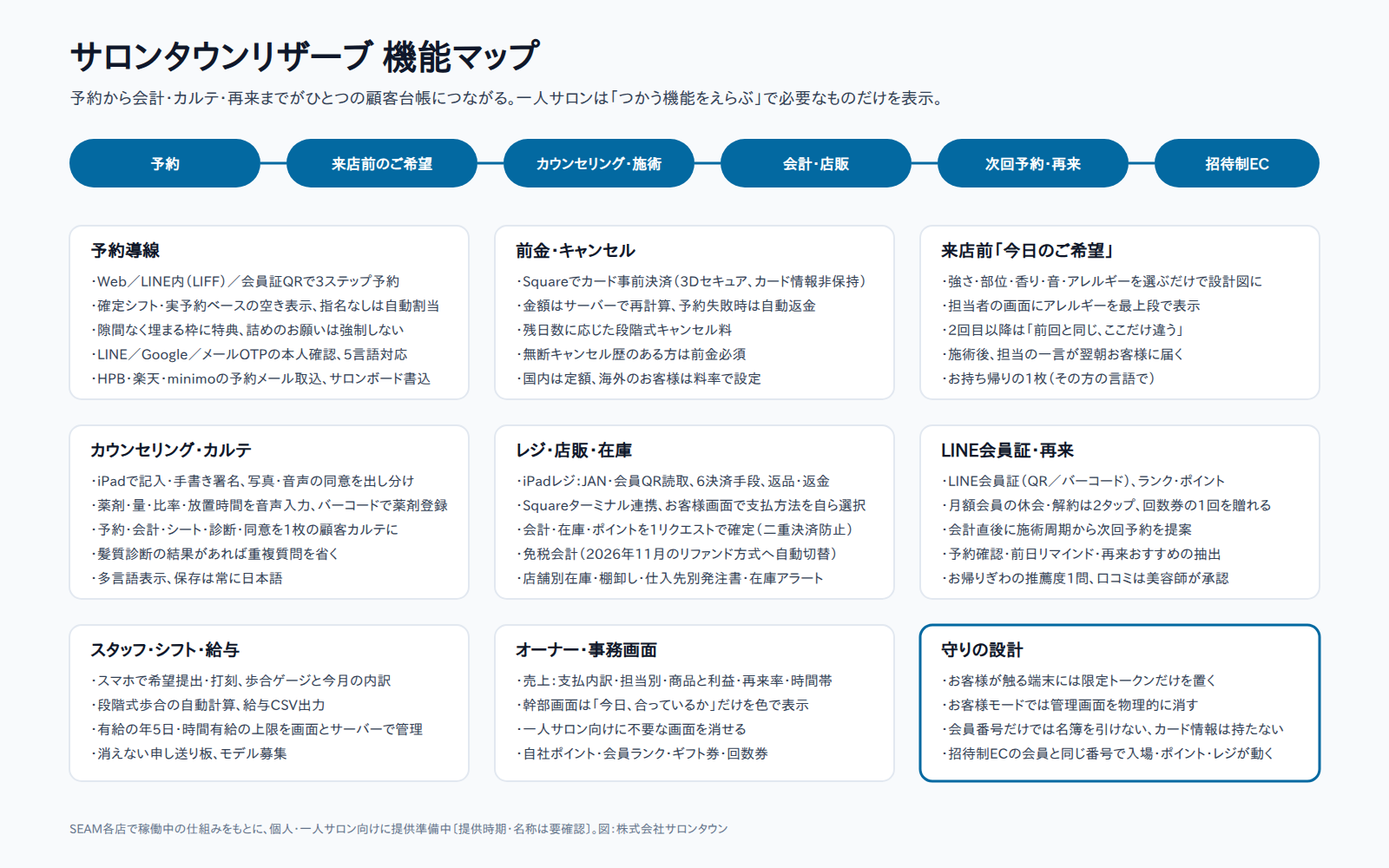
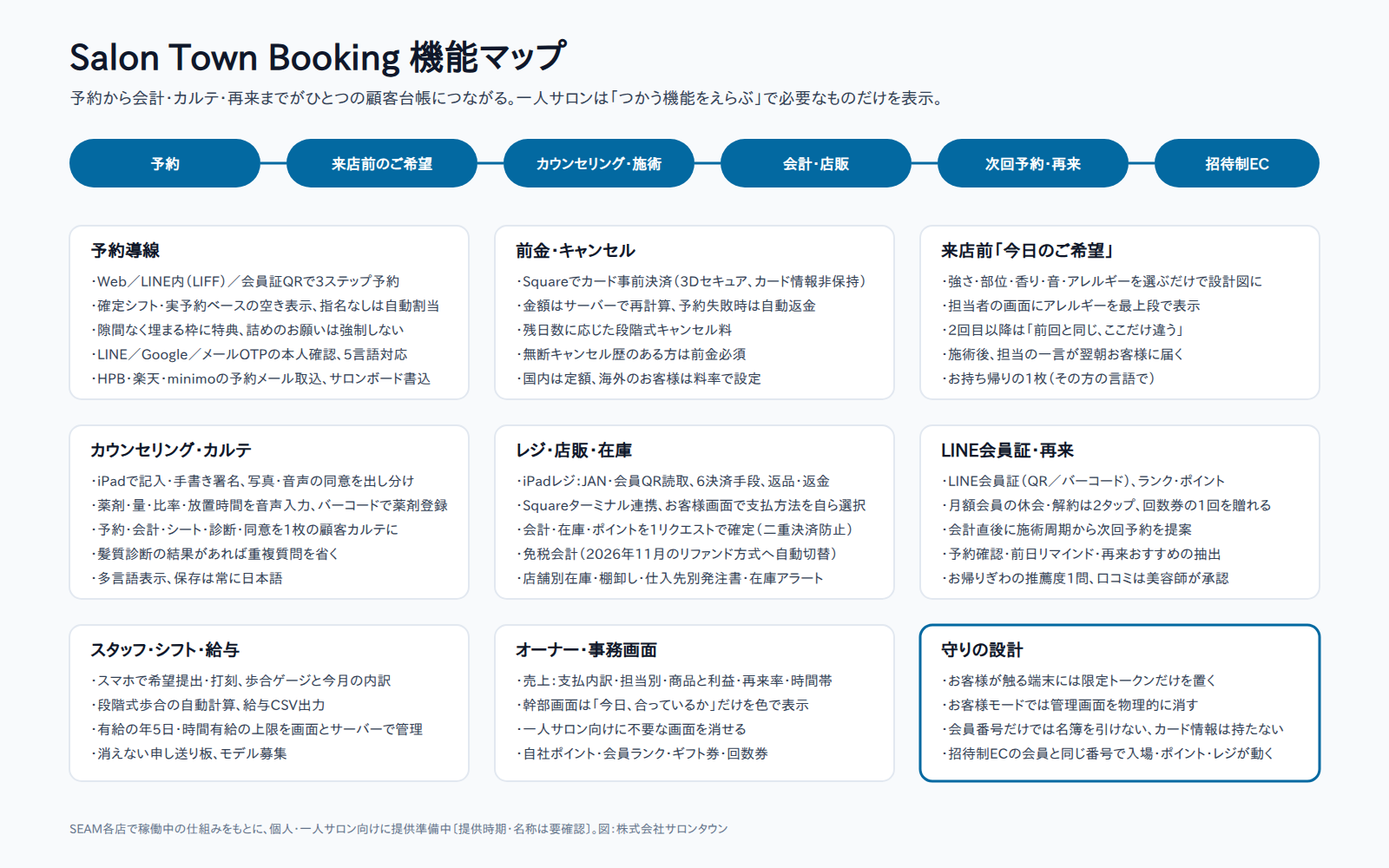
Rename product to Salon Town Booking across site, outreach docs and diagrams
Claude-Session: https://claude.ai/code/session_013C6tmT1zfXgEGe4crYL5rv

Changed region(s): [[0.0312, 0.031, 0.4062, 0.093]]

diff --git a/salontown/index.html b/salontown/index.html
@@ -4,7 +4,7 @@
 <meta charset="utf-8">
 <meta name="viewport" content="width=device-width,initial-scale=1">
 <title>salon.town｜サロンのための最先端システム — 株式会社サロンタウン</title>
-<meta name="description" content="サロンとディーラーの悩みを仕組みで解決するシステム会社、株式会社サロンタウン。招待制クローズドEC、予約システム サロンタウンリザーブ、ディーラー連携の無在庫店販、B2B卸EC、商品マスタ統一、シフト・給与、AI受付。悩みを一つ解決するたび、事業は速くなる。">
+<meta name="description" content="サロンとディーラーの悩みを仕組みで解決するシステム会社、株式会社サロンタウン。招待制クローズドEC、予約システム Salon Town Booking、ディーラー連携の無在庫店販、B2B卸EC、商品マスタ統一、シフト・給与、AI受付。悩みを一つ解決するたび、事業は速くなる。">
 <link rel="canonical" href="https://seam.site/salontown/">
 <meta property="og:title" content="salon.town｜サロンのための最先端システム">
 <meta property="og:description" content="サロンとディーラーの悩みを仕組みで解決する。累計会員6万人、最高月商7,000万円の招待制ECと、予約・会計・カルテ・店販がひとつになる基盤。">
@@ -349,7 +349,7 @@
     <nav class="nav-links" aria-label="主要ナビゲーション">
       <a href="#platform">プラットフォーム</a>
       <a href="screens.html">画面</a>
-      <a href="#reserve">リザーブ</a>
+      <a href="#reserve">Booking</a>
       <a href="#ec">クローズドEC</a>
       <a href="#dealer">ディーラー連携</a>
       <a href="#ai">AI受付</a>
@@ -367,7 +367,7 @@
 <div class="m-panel" id="mPanel">
   <a href="#platform">プラットフォーム</a>
   <a href="screens.html">実際の画面</a>
-  <a href="#reserve">サロンタウンリザーブ</a>
+  <a href="#reserve">Salon Town Booking</a>
   <a href="#ec">招待制クローズドEC</a>
   <a href="#dealer">ディーラー連携</a>
   <a href="#ai">AI受付</a>
@@ -416,7 +416,7 @@
     <h2 class="t-xl ja" style="margin-top:14px">悩みを解決することが、<br>システムの務め。</h2>
     <p class="lead ja">予約が入り、来店し、施術して、会計し、商品を案内し、また来ていただく。この流れのどこかで、毎日手が止まっています。その一つひとつが売上と時間を静かに削っている。salon.town は、手が止まる場所を同じ顧客台帳の上で解決します。悩みが一つ減るたびに、店は次の店、次の商品、次のスタッフへ進めます。</p>
     <div class="bento">
-      <a class="cell c2 blue" href="#reserve"><span class="ic">📅</span><h3>サロンタウンリザーブ</h3><p>予約の二重管理、無断キャンセル、紙のカルテを一枚の台帳で解決</p></a>
+      <a class="cell c2 blue" href="#reserve"><span class="ic">📅</span><h3>Salon Town Booking</h3><p>予約の二重管理、無断キャンセル、紙のカルテを一枚の台帳で解決</p></a>
       <a class="cell c2" href="#ec"><span class="ic">🎫</span><h3>招待制クローズドEC</h3><p>「店販が続かない」を、招待した人だけが買えるECで解決</p></a>
       <a class="cell c2" href="#dealer"><span class="ic">📦</span><h3>ディーラー連携 無在庫店販</h3><p>在庫・梱包・発送の悩みをゼロに。在庫と出荷はディーラー</p></a>
       <a class="cell c3" href="#b2b"><span class="ic">🏷</span><h3>B2B卸EC・商品マスタ統一</h3><p>FAX発注とバラバラの商品データを、まとめ発注と統一マスタで解決</p></a>
@@ -486,7 +486,7 @@
 <!-- RESERVE -->
 <section class="chapter dark" id="reserve">
   <div class="inner">
-    <div class="media r"><img src="img/reserve.jpg" alt="サロンタウンリザーブ 予約画面のイメージ" width="1536" height="1024" loading="lazy"><span class="cap">Salon Town Reserve</span></div>
+    <div class="media r"><img src="img/reserve.jpg" alt="Salon Town Booking 予約画面のイメージ" width="1536" height="1024" loading="lazy"><span class="cap">Salon Town Booking</span></div>
     <div class="r">
       <span class="tag">Booking</span>
       <h2 class="t-lg ja">予約の悩みを、<br>一枚のカルテで解決する。</h2>
@@ -753,7 +753,7 @@
       <details><summary class="ja">ディーラーとして参加する場合、何を用意すればよいですか</summary><p class="ja">新しい倉庫も人員も不要です。対象サロンと取扱商品を決め、出荷指示の受け取り方を決めたら、いつもの出荷をしていただくだけです。まず担当サロン1店から試せます。</p></details>
       <details><summary class="ja">「スマイル」など独自の在庫システムを使っています。連携できますか</summary><p class="ja">できます。在庫・受注・出荷の情報を二重入力せずに済むよう、いまお使いのシステムに合わせて当社エンジニアが接続します。基幹システムや会計、物流など他のシステムも同様です。接続方法はシステムごとに異なるため、まず現状の構成をお聞かせください。</p></details>
       <details><summary class="ja">メーカーの流通規約に反しませんか</summary><p class="ja">正規流通の枠組みの中で運用します。在庫と出荷はディーラー、購入できるのはサロンが対面で招待した会員だけです。会員登録はサロンから500m以内・招待コード発行から1分以内に限定し、誰にどこで売られたかが担当者単位で残ります。</p></details>
-      <details><summary class="ja">サロンタウンリザーブはいつから使えますか</summary><p class="ja">SEAM各店で稼働中の仕組みを土台に、個人サロン・一人サロン向けに準備しています。提供時期と価格は決まり次第ご案内します。フォームから「提供開始の案内」をご希望ください。</p></details>
+      <details><summary class="ja">Salon Town Bookingはいつから使えますか</summary><p class="ja">SEAM各店で稼働中の仕組みを土台に、個人サロン・一人サロン向けに準備しています。提供時期と価格は決まり次第ご案内します。フォームから「提供開始の案内」をご希望ください。</p></details>
       <details><summary class="ja">個人情報やカード情報はどう扱われますか</summary><p class="ja">カード情報は決済事業者の画面にのみ入力され、当社やサロンのサーバーは番号を受け取りません。お客様が触る端末に管理者の権限は置かず、会員番号だけでは名簿を引けない設計です。顧客情報は暗号化して保管します。</p></details>
       <details><summary class="ja">相談は有料ですか</summary><p class="ja">無料です。つくりたいシステムが固まっていなくても、現場の困りごとから一緒に整理します。</p></details>
     </div>
@@ -767,7 +767,7 @@
     <div class="news-list">
       <a class="news r" href="https://prtimes.jp/main/html/rd/p/000000001.000174537.html" target="_blank" rel="noopener"><time>2025.12.11</time><h3 class="ja">美容師一人ひとりに「自分専用EC」を。ディーラー各社と無在庫で店販ができる新スキームを提供開始</h3><p>PR TIMES</p></a>
       <a class="news r" href="#dealer"><time>2026</time><h3 class="ja">ディーラー各社との連携を段階的に拡大中。本格展開へ</h3><p class="ja">物流・在庫はディーラー、EC・会員管理は salon.town</p></a>
-      <a class="news r" href="#reserve"><time>Coming</time><h3 class="ja">予約システム「サロンタウンリザーブ」を個人・一人サロン向けに準備中</h3><p class="ja">SEAM各店で稼働中の仕組みが土台</p></a>
+      <a class="news r" href="#reserve"><time>Coming</time><h3 class="ja">予約システム「Salon Town Booking」を個人・一人サロン向けに準備中</h3><p class="ja">SEAM各店で稼働中の仕組みが土台</p></a>
     </div>
   </div>
 </section>
@@ -840,7 +840,7 @@
         <a class="brand" href="#top"><svg viewBox="0 0 48 48" aria-hidden="true"><rect x="2" y="2" width="44" height="44" rx="13" fill="url(#lg)"/><g fill="none" stroke="#fff" stroke-width="2.3" stroke-linejoin="round" stroke-linecap="round"><path d="M9.5 23.5 V35 H18.5 V23.5 L14 19 Z"/><path d="M23.5 20.5 V35 H36.5 V20.5 L30 15 Z"/></g><rect x="27.6" y="28" width="5" height="7" rx="1" fill="#0EA5E9"/></svg>salon.town</a>
         <p class="ja">株式会社サロンタウン。サロンのためのシステム開発を軸に、招待制クローズドEC、予約、POS、顧客管理まで、現場が回る仕組みをつくります。</p>
       </div>
-      <div><h5 class="ja">プロダクト</h5><a href="#reserve" class="ja">サロンタウンリザーブ</a><a href="#ec" class="ja">招待制クローズドEC</a><a href="#dealer" class="ja">ディーラー連携</a><a href="#b2b" class="ja">B2B卸EC・PIM</a><a href="#shift" class="ja">シフト・給与</a></div>
+      <div><h5 class="ja">プロダクト</h5><a href="#reserve" class="ja">Salon Town Booking</a><a href="#ec" class="ja">招待制クローズドEC</a><a href="#dealer" class="ja">ディーラー連携</a><a href="#b2b" class="ja">B2B卸EC・PIM</a><a href="#shift" class="ja">シフト・給与</a></div>
       <div><h5 class="ja">会社</h5><a href="#cases" class="ja">導入実績</a><a href="#vision" class="ja">ビジョン</a><a href="#news" class="ja">ニュース</a><a href="#company" class="ja">会社概要</a><a href="contact.html" class="ja">AI受付</a></div>
       <div><h5 class="ja">連絡先</h5><a href="tel:0112529133">011-252-9133</a><a href="mailto:tanaka@salontown.jp">tanaka@salontown.jp</a><a href="contact.html" class="ja">AI受付（音声・文字、24時間）</a><p class="ja" style="margin-top:8px">札幌市中央区南2条西2丁目8-1<br>NC北専ブロックビル3階</p></div>
     </div>
@@ -914,7 +914,7 @@
 /* EN / JA toggle: 日本語の文をキーに英訳を引く。見つからない要素はそのまま。 */
 (function(){
   var MAP={
-  "プラットフォーム":"Platform","画面":"Screens","実際の画面":"Real screens","イメージではなく、実際の画面。":"Not mockups. Real screens.","サロンで毎日使われている画面と、いま開発している画面をそのまま載せています。お客様が触る画面、スタッフの画面、オーナーの画面まで。":"Screens used in salons every day, plus the ones we are building now, shown as they are. Guest screens, staff screens and owner screens.","招待制EC":"Closed EC","お客様のアプリ":"Guest app","オーナーの管理画面":"Owner admin","LINEから3ステップ":"3 steps from LINE","実際の画面をすべて見る":"See all real screens","リザーブ":"Reserve","クローズドEC":"Closed EC","ディーラー連携":"Dealers","AI受付":"AI reception","実績":"Results","会社":"Company","AIに話す":"Talk to AI","相談する":"Contact","サロンタウンリザーブ":"Salon Town Reserve","招待制クローズドEC":"Invitation-only closed EC","導入実績":"Case studies","会社概要":"Company","本文へ":"Skip to content",
+  "プラットフォーム":"Platform","画面":"Screens","実際の画面":"Real screens","イメージではなく、実際の画面。":"Not mockups. Real screens.","サロンで毎日使われている画面と、いま開発している画面をそのまま載せています。お客様が触る画面、スタッフの画面、オーナーの画面まで。":"Screens used in salons every day, plus the ones we are building now, shown as they are. Guest screens, staff screens and owner screens.","招待制EC":"Closed EC","お客様のアプリ":"Guest app","オーナーの管理画面":"Owner admin","LINEから3ステップ":"3 steps from LINE","実際の画面をすべて見る":"See all real screens","Booking":"Booking","クローズドEC":"Closed EC","ディーラー連携":"Dealers","AI受付":"AI reception","実績":"Results","会社":"Company","AIに話す":"Talk to AI","相談する":"Contact","Salon Town Booking":"Salon Town Booking","招待制クローズドEC":"Invitation-only closed EC","導入実績":"Case studies","会社概要":"Company","本文へ":"Skip to content",
   "サロンを、<br>いちばん<br><span class=\"grad\">豊かに。</span>":"Making salons<br>truly<br><span class=\"grad\">prosperous.</span>",
   "最先端の技術を、サロンが使いやすい形に。予約・会計・カルテ・店販・在庫がひとつの基盤でつながり、ディーラーと結んだ無在庫店販が売上をつくる。サロンの現場から生まれたシステム会社です。":"Cutting-edge technology, shaped so salons can actually use it. Booking, checkout, records, retail and stock run on one platform, and stock-free retail with dealers creates sales. Born on the salon floor.",
   "無料で相談する":"Free consultation","AI受付に話す（24時間）":"Talk to AI reception (24h)","累計オンラインショップ会員":"Online shop members (total)","オンラインショップ 最高月商":"Peak monthly online sales","対面での会員獲得率":"Members signed up in person","導入サロン数":"Salons live","人":"","サロン":" salons","万":"",
@@ -1075,10 +1075,10 @@
   "既存の予約システムやホットペッパーと併用できますか":"Can I keep my current booking system or Hot Pepper Beauty?","併用を前提にしています。予約通知メールの取り込み、サロンボードへの書き込みと同期の監視を持っています。乗り換えを迫ることはありません。":"Yes, coexistence is the default. We import booking notification emails, write to Salon Board and monitor the sync. We never force a switch.",
   "ディーラーとして参加する場合、何を用意すればよいですか":"What does a dealer need to prepare?","新しい倉庫も人員も不要です。対象サロンと取扱商品を決め、出荷指示の受け取り方を決めたら、いつもの出荷をしていただくだけです。まず担当サロン1店から試せます。":"No new warehouse or staff. Choose the salons and products, decide how you receive shipping instructions, then ship as usual. You can start with a single salon.",
   "メーカーの流通規約に反しませんか":"Does this violate maker distribution rules?","正規流通の枠組みの中で運用します。在庫と出荷はディーラー、購入できるのはサロンが対面で招待した会員だけです。会員登録はサロンから500m以内・招待コード発行から1分以内に限定し、誰にどこで売られたかが担当者単位で残ります。":"It runs inside official distribution. Dealers hold stock and ship; only members invited in person by a salon can buy. Sign-up is limited to 500m of the salon and one minute after the invite code, and every sale is recorded down to the stylist.",
-  "サロンタウンリザーブはいつから使えますか":"When can I use Salon Town Reserve?","SEAM各店で稼働中の仕組みを土台に、個人サロン・一人サロン向けに準備しています。提供時期と価格は決まり次第ご案内します。フォームから「提供開始の案内」をご希望ください。":"It is being prepared for independent and solo salons on the system already running in every SEAM store. Launch timing and pricing will be announced once decided. Use the form to request launch news.",
+  "Salon Town Bookingはいつから使えますか":"When can I use Salon Town Booking?","SEAM各店で稼働中の仕組みを土台に、個人サロン・一人サロン向けに準備しています。提供時期と価格は決まり次第ご案内します。フォームから「提供開始の案内」をご希望ください。":"It is being prepared for independent and solo salons on the system already running in every SEAM store. Launch timing and pricing will be announced once decided. Use the form to request launch news.",
   "個人情報やカード情報はどう扱われますか":"How are personal and card data handled?","カード情報は決済事業者の画面にのみ入力され、当社やサロンのサーバーは番号を受け取りません。お客様が触る端末に管理者の権限は置かず、会員番号だけでは名簿を引けない設計です。顧客情報は暗号化して保管します。":"Card details are entered only on the payment provider's screen; neither our servers nor the salon's receive the number. Guest-facing devices carry no admin rights, a member number alone can't pull up the list, and customer data is stored encrypted.",
   "相談は有料ですか":"Is a consultation free?","無料です。つくりたいシステムが固まっていなくても、現場の困りごとから一緒に整理します。":"Yes, it's free. Even if you don't yet know what to build, we start by sorting out the problems on the floor together.",
-  "いま動いていること":"What's moving now","美容師一人ひとりに「自分専用EC」を。ディーラー各社と無在庫で店販ができる新スキームを提供開始":"A personal EC for every stylist: stock-free retail scheme launched with dealers","ディーラー各社との連携を段階的に拡大中。本格展開へ":"Dealer partnerships expanding step by step toward full rollout","物流・在庫はディーラー、EC・会員管理は salon.town":"Dealers handle logistics and stock; salon.town handles EC and members","予約システム「サロンタウンリザーブ」を個人・一人サロン向けに準備中":"Salon Town Reserve being prepared for independent and solo salons","SEAM各店で稼働中の仕組みが土台":"Built on the system running in every SEAM store",
+  "いま動いていること":"What's moving now","美容師一人ひとりに「自分専用EC」を。ディーラー各社と無在庫で店販ができる新スキームを提供開始":"A personal EC for every stylist: stock-free retail scheme launched with dealers","ディーラー各社との連携を段階的に拡大中。本格展開へ":"Dealer partnerships expanding step by step toward full rollout","物流・在庫はディーラー、EC・会員管理は salon.town":"Dealers handle logistics and stock; salon.town handles EC and members","予約システム「Salon Town Booking」を個人・一人サロン向けに準備中":"Salon Town Booking being prepared for independent and solo salons","SEAM各店で稼働中の仕組みが土台":"Built on the system running in every SEAM store",
   "株式会社サロンタウン":"SALON TOWN Inc.","美容関連サイトとシェアサロンを運営しながら、サロンのためのシステムを開発しています。":"We develop systems for salons while running beauty media and a shared salon.",
   "会社名":"Company","株式会社サロンタウン（SALON TOWN Inc.）":"SALON TOWN Inc.","代表者":"CEO","代表取締役 田中 健誠":"Kensei Tanaka, CEO","所在地":"Address","北海道札幌市中央区南2条西2丁目8-1 NC北専ブロックビル3階":"NC Hokusen Block Bldg. 3F, Minami 2-jo Nishi 2-8-1, Chuo-ku, Sapporo, Hokkaido, Japan","設立":"Founded","2019年2月":"February 2019","事業内容":"Business","サロン向けシステム開発（招待制クローズドEC、B2B卸EC、予約システム、POS・顧客・在庫）、美容関連サイトの運営、シェアサロンの運営":"Salon software (invitation-only closed EC, B2B wholesale EC, booking, POS/CRM/stock), beauty media, shared salon operation","連絡先":"Contact",
   "その運用、仕組みにできるか。<br>一度、話しませんか。":"Could that workflow become a system?<br>Let's talk.","つくりたいシステムが固まっていなくても大丈夫です。まず現場の困りごとから一緒に整理します。相談は無料です。":"You don't need a finished idea. We start by sorting out the problems on the floor together. Consultation is free.",

diff --git a/salontown/screens.html b/salontown/screens.html
@@ -4,7 +4,7 @@
 <meta charset="utf-8">
 <meta name="viewport" content="width=device-width,initial-scale=1">
 <title>実際の画面｜salon.town — 株式会社サロンタウン</title>
-<meta name="description" content="salon.town の実際の画面。招待制クローズドEC、予約システム サロンタウンリザーブ、B2B卸EC、シフト・給与、AI受付、髪質診断。サロンで毎日使われている画面をそのまま掲載しています。">
+<meta name="description" content="salon.town の実際の画面。招待制クローズドEC、予約システム Salon Town Booking、B2B卸EC、シフト・給与、AI受付、髪質診断。サロンで毎日使われている画面をそのまま掲載しています。">
 <link rel="canonical" href="https://seam.site/salontown/screens.html">
 <meta property="og:title" content="実際の画面｜salon.town">
 <meta property="og:description" content="サロンで毎日使われている画面を、そのまま。予約・EC・卸EC・シフト・AI受付。">
@@ -147,7 +147,7 @@
 <!-- RESERVE -->
 <section id="reserve" class="dark">
   <div class="wrap">
-    <div class="head r"><div class="kicker">お客様・スタッフの画面</div><h2 class="t-lg ja">予約とカウンセリング<span class="badge">SEAM 銀座で稼働中</span></h2><p class="lead ja">LINEから開く予約画面と、来店時にiPadで記入するカウンセリングシート。5言語に切り替わり、記入内容はそのまま担当者のカルテに入ります。サロンタウンリザーブは、この仕組みを個人サロン・一人サロン向けに整えたものです。</p></div>
+    <div class="head r"><div class="kicker">お客様・スタッフの画面</div><h2 class="t-lg ja">予約とカウンセリング<span class="badge">SEAM 銀座で稼働中</span></h2><p class="lead ja">LINEから開く予約画面と、来店時にiPadで記入するカウンセリングシート。5言語に切り替わり、記入内容はそのまま担当者のカルテに入ります。Salon Town Bookingは、この仕組みを個人サロン・一人サロン向けに整えたものです。</p></div>
     <div class="devices r">
       <div class="phone"><div class="scr"><img src="img/screens/booking-customer.png" alt="LINE予約の入口画面" loading="lazy"></div><p class="cap"><b>予約の入口</b>メニュー→空き時間→確認の3ステップ</p></div>
       <div class="tablet"><div class="scr"><img src="img/screens/counseling.png" alt="カウンセリングシート・同意書" loading="lazy"></div><p class="cap"><b>カウンセリングシート・同意書（iPad）</b>5言語、手書き署名、施術履歴の記録</p></div>

diff --git a/salontown/contact.html b/salontown/contact.html
@@ -143,7 +143,7 @@
     <a class="brand" href="./"><svg class="brand-mark" viewBox="0 0 48 48" aria-hidden="true"><rect x="2" y="2" width="44" height="44" rx="13" fill="url(#logoGrad)"/><g fill="none" stroke="#fff" stroke-width="2.3" stroke-linejoin="round" stroke-linecap="round"><path d="M9.5 23.5 V35 H18.5 V23.5 L14 19 Z"/><path d="M23.5 20.5 V35 H36.5 V20.5 L30 15 Z"/></g><rect x="27.6" y="28" width="5" height="7" rx="1" fill="#0EA5E9"/></svg><span class="wm">salon<span class="wm-dot">.</span>town<br><small>System for Salons</small></span></a>
     <nav class="nav-links">
       <a href="./#platform">プラットフォーム</a>
-      <a href="./#reserve">リザーブ</a>
+      <a href="./#reserve">Booking</a>
       <a href="./#dealer">ディーラー連携</a>
       <a href="./#cases">実績</a>
       <a href="./#company">会社</a>
@@ -202,7 +202,7 @@
       <div class="card">
         <div class="ic"><svg viewBox="0 0 24 24" fill="none" stroke="currentColor" stroke-width="2" stroke-linecap="round" stroke-linejoin="round"><rect x="3" y="4" width="18" height="18" rx="2"/><path d="M16 2v4M8 2v4M3 10h18"/></svg></div>
         <h3>サロン・美容師の方</h3>
-        <p>招待制ECと、予約から会計・カルテ・再来までがひとつになる「サロンタウンリザーブ」。一人サロンでも使える形で準備しています。</p>
+        <p>招待制ECと、予約から会計・カルテ・再来までがひとつになる「Salon Town Booking」。一人サロンでも使える形で準備しています。</p>
       </div>
       <div class="card">
         <div class="ic"><svg viewBox="0 0 24 24" fill="none" stroke="currentColor" stroke-width="2" stroke-linecap="round" stroke-linejoin="round"><path d="M4 4h16v12H8l-4 4z"/></svg></div>
@@ -259,7 +259,7 @@
       </div>
       <div class="foot-col">
         <h5>サービス</h5>
-        <a href="./#reserve">サロンタウンリザーブ</a>
+        <a href="./#reserve">Salon Town Booking</a>
         <a href="./#ec">招待制クローズドEC</a>
         <a href="./#dealer">ディーラー連携</a>
         <a href="./#b2b">B2B卸EC・PIM</a>

diff --git a/outreach/01_press_release_plan.md b/outreach/01_press_release_plan.md
@@ -1,7 +1,7 @@
 # 01 プレスリリース企画書（社内意思決定用）
 
 発信主体：株式会社サロンタウン（代表取締役 田中 健誠）
-対象：2025年12月11日発表「ディーラー連携の無在庫店販スキーム」の続報として、予約システム「サロンタウンリザーブ」を含めた全体像を公開する
+対象：2025年12月11日発表「ディーラー連携の無在庫店販スキーム」の続報として、予約システム「Salon Town Booking」を含めた全体像を公開する
 前提事実：`00_facts.md`。機能の根拠：`05_reserve_features.md`
 配信希望日・特集号の締切：〔要記入〕。未確定のため、本書のタイムラインは「原稿締切＝D」からの逆算で書いている
 
@@ -12,7 +12,7 @@
 ### 目的
 1. ディーラー営業（`03_outreach_emails.md`）の開封率と面談化率を上げる。「記事になった会社」として名前が通った状態でメールを送る
 2. 2026年の本格展開に向けて、ディーラー・メーカーに「正規流通を守る仕組みである」ことを公の場で説明しておく
-3. 一人サロン・個人サロンに「サロンタウンリザーブ」の存在を知らせ、提供開始時の初期ユーザーを確保する
+3. 一人サロン・個人サロンに「Salon Town Booking」の存在を知らせ、提供開始時の初期ユーザーを確保する
 
 ### KPI（仮置き。配信後4週間で判定）
 | 指標 | 目標 | 測り方 |
@@ -22,7 +22,7 @@
 | ディーラーからの問い合わせ | 8件 | フォーム・メール・電話の記録（`04_dealer_contacts.csv` の返信列） |
 | ディーラー営業メールの返信率 | 15%（初回＋フォロー合計） | 送信数に対する返信数 |
 | 面談化 | 6社 | オンライン面談の実施数 |
-| サロンからの「リザーブ」事前登録 | 30件 | 〔要確認：事前登録フォームを作るか〕 |
+| サロンからの「Booking」事前登録 | 30件 | 〔要確認：事前登録フォームを作るか〕 |
 
 ---
 
@@ -100,7 +100,7 @@
 | D-1〜D+2 | ディーラー本送信（優先度2〜3）、1週間後フォロー | 担当者 | 返信記録 |
 | 掲載後 | 「掲載誌をご覧ください」の再送、面談化 | 田中 | 面談数 |
 
-注意：先にディーラーに打診してから記事を出すか、記事を出してからディーラーに送るかは、システムの完成度で決める。サロンタウンリザーブは SEAM 各店で稼働している仕組みが土台にあるため、「稼働中の仕組みを個人サロン向けに提供準備中」と書ける。ただし提供開始日を書けない段階で記事が先行すると、問い合わせに応えられない。提供開始日〔要記入〕が決まるまでは、リリースの主語を「ディーラー連携の進捗」に置き、リザーブは「開発状況の公開」にとどめる。
+注意：先にディーラーに打診してから記事を出すか、記事を出してからディーラーに送るかは、システムの完成度で決める。Salon Town Bookingは SEAM 各店で稼働している仕組みが土台にあるため、「稼働中の仕組みを個人サロン向けに提供準備中」と書ける。ただし提供開始日を書けない段階で記事が先行すると、問い合わせに応えられない。提供開始日〔要記入〕が決まるまでは、リリースの主語を「ディーラー連携の進捗」に置き、リザーブは「開発状況の公開」にとどめる。
 
 ---
 
@@ -114,9 +114,9 @@
 **株式会社サロンタウン**
 
 # 美容師一人ひとりの「自分専用EC」に、予約がつながる。
-## ディーラー連携の在庫レス店販スキーム、2026年展開の進捗と予約システム「サロンタウンリザーブ」を公開
+## ディーラー連携の在庫レス店販スキーム、2026年展開の進捗と予約システム「Salon Town Booking」を公開
 
-サロン向けシステムを開発する株式会社サロンタウン（本社：北海道札幌市、代表取締役：田中 健誠）は、2025年12月に発表した「ディーラー各社と連携し、美容師が在庫を持たずに物販を行える新スキーム」の進捗と、同じ基盤の上で動く予約システム「サロンタウンリザーブ」の開発状況を公開します。当社の招待制ECは、累計オンラインショップ会員数6万人、オンラインショップ最高月商7,000万円（〔要確認：時点〕）に達しています。
+サロン向けシステムを開発する株式会社サロンタウン（本社：北海道札幌市、代表取締役：田中 健誠）は、2025年12月に発表した「ディーラー各社と連携し、美容師が在庫を持たずに物販を行える新スキーム」の進捗と、同じ基盤の上で動く予約システム「Salon Town Booking」の開発状況を公開します。当社の招待制ECは、累計オンラインショップ会員数6万人、オンラインショップ最高月商7,000万円（〔要確認：時点〕）に達しています。
 
 ### 背景：店販は「在庫」と「案内の続かなさ」で止まる
 サロンの店販は、仕入れた在庫が動かないことと、施術のあとにお客様への案内が続かないことで止まります。当社は札幌でサロンを運営しながらシステムを開発しており、この2つを現場で見てきました。
@@ -133,8 +133,8 @@
 ### 進捗：ディーラー各社との連携を段階的に拡大
 2026年の本格展開に向け、ディーラー各社との連携を進めながら、段階的に対象エリアを広げています。〔要確認：連携ディーラーの社数または社名。出せなければこの段落は「連携を進めています」のみにする〕
 
-### 予約システム「サロンタウンリザーブ」
-当社は、SEAM各店（銀座・表参道・札幌・大阪・名古屋・福岡・宇都宮）で稼働している予約〜会計〜カルテの仕組みを土台に、個人サロン・一人サロン向けの予約システム「サロンタウンリザーブ」を開発しています。招待制ECと同じ会員基盤の上で動くため、予約から来店、会計、店販、次回予約までがひとつの顧客台帳につながります。
+### 予約システム「Salon Town Booking」
+当社は、SEAM各店（銀座・表参道・札幌・大阪・名古屋・福岡・宇都宮）で稼働している予約〜会計〜カルテの仕組みを土台に、個人サロン・一人サロン向けの予約システム「Salon Town Booking」を開発しています。招待制ECと同じ会員基盤の上で動くため、予約から来店、会計、店販、次回予約までがひとつの顧客台帳につながります。
 
 - **予約**：Web・LINE・会員証QRから3ステップ。確定シフトと実予約に基づく空き表示。5言語対応
 - **前金とキャンセル**：カード事前決済（カード情報はサロンで保持しない）、残日数に応じた段階式キャンセル料、無断キャンセル歴のある方への前金必須設定
@@ -151,7 +151,7 @@
 「私たちは、サロンを自分たちで運営しながらシステムをつくっています。予約、会計、在庫、顧客。どこで現場の手が止まるかを肌感覚で分かったうえで、毎日ちゃんと使われて売上につながる仕組みだけを作ってきました。ディーラー各社と組むのは、サロンの信頼がいちばん乗るのが、いつもの担当者からいつもの商品が届く形だからです。」（株式会社サロンタウン 代表取締役 田中 健誠）〔要確認：本人確認〕
 
 ### 今後
-ディーラー各社との連携拡大と、サロンタウンリザーブの提供開始〔要記入：時期〕に向けて準備を進めます。ディーラー、メーカー、サロンからのお問い合わせを受け付けています。
+ディーラー各社との連携拡大と、Salon Town Bookingの提供開始〔要記入：時期〕に向けて準備を進めます。ディーラー、メーカー、サロンからのお問い合わせを受け付けています。
 
 ### 会社概要
 株式会社サロンタウン
@@ -188,7 +188,7 @@ AI受付（音声・文字で24時間応答）：https://seam.site/salontown/con
 6. **ディーラー側の負担は何か。儲かるのか**
    新しい倉庫や人員は不要で、出荷指示を受けていつもの出荷をするだけです。収益は販売手数料の分配です。具体的な料率は個別にご説明します〔要確認：公開可否〕。
 
-7. **サロンタウンリザーブはいつ、いくらで提供するのか**
+7. **Salon Town Bookingはいつ、いくらで提供するのか**
    〔要記入：時期と価格〕。決まっていない場合は「SEAM 各店で稼働中の仕組みを土台に、個人・一人サロン向けに準備中。時期と価格は決まり次第お知らせします」と答える。「未定」で止めず、稼働中の土台があることを伝える。
 
 8. **サロン運営会社（株式会社hanico）とサロンタウンの関係は**
@@ -212,7 +212,7 @@ AI受付（音声・文字で24時間応答）：https://seam.site/salontown/con
 ### 未確定情報
 - 提供開始日、価格、連携ディーラー名は、確定していなければ書かない。〔要確認〕〔要記入〕が残った状態で配信しない
 - salon.town サイト上の「90サロン」「年間EC3億円」「対面獲得率90%」は、時点と根拠を確認するまでリリースに入れない。使うのは代表指示の「6万人」「7,000万円」のみ
-- 「サロンタウンリザーブ」の名称は対外初出〔要確認〕。商標の確認をしてから使う
+- 「Salon Town Booking」の名称は対外初出〔要確認〕。商標の確認をしてから使う
 
 ### 他社比較
 - 他社の実名を出した優劣比較はしない。「一般的な予約システムでは」の書き方にとどめる

diff --git a/outreach/02_media_pitch.md b/outreach/02_media_pitch.md
@@ -8,8 +8,8 @@
 - 代表 田中へのインタビュー（対面：札幌／東京出張時、オンライン随時）
 - 導入サロンの現場取材（SEAM 各店：銀座・表参道・札幌・大阪・名古屋・福岡・宇都宮。株式会社hanico 経由で調整）
 - ディーラー側の声（株式会社菊池：B2B卸EC導入先。取材可否は〔要確認〕）
-- 画面デモ（招待制EC／会員登録の位置情報＋OTP／サロンタウンリザーブの予約導線）
-- 図版：`images/01_scheme.png`（ディーラー・サロンタウン・サロン・お客様の役割図）、`images/02_reserve_map.png`（リザーブ機能マップ）、`images/03_platform.png`（同一基盤の構成図）
+- 画面デモ（招待制EC／会員登録の位置情報＋OTP／Salon Town Bookingの予約導線）
+- 図版：`images/01_scheme.png`（ディーラー・サロンタウン・サロン・お客様の役割図）、`images/02_reserve_map.png`（Booking 機能マップ）、`images/03_platform.png`（同一基盤の構成図）
 - 実データ：累計オンラインショップ会員 6万人、オンラインショップ最高月商 7,000万円（時点は〔要確認〕）
 - 寄稿：「一人サロンが在庫を持たずに店販を始める手順」等、1,500〜3,000字で対応可
 
@@ -65,7 +65,7 @@
 
 **なぜ今、貴誌で**
 - 独立直後の美容師は、店販の仕入れ在庫を抱える余裕がありません。ディーラーが在庫と物流を持ち、美容師は「自分専用EC」でお客様に案内するだけ、という形を作りました。
-- 予約導線も同じ基盤に載せています。LINEで完結する予約から、来店後の商品案内までを一人で回せる設計です（開発中の「サロンタウンリザーブ」）。
+- 予約導線も同じ基盤に載せています。LINEで完結する予約から、来店後の商品案内までを一人で回せる設計です（開発中の「Salon Town Booking」）。
 - シェアサロン運営で日々接している独立美容師の実例を、本人の了承のうえでご紹介できます〔要確認：登場可能な美容師〕。
 
 **提供できる素材**
@@ -180,7 +180,7 @@
 
 **なぜ今、貴誌で**
 - 施術履歴をもとにしたAIレコメンドを載せています。技術の記録が、そのままお客様への提案になります。
-- 予約時の事前カウンセリング、施術後の記録、次回来店の案内を一つの導線にまとめる「サロンタウンリザーブ」を開発中です。
+- 予約時の事前カウンセリング、施術後の記録、次回来店の案内を一つの導線にまとめる「Salon Town Booking」を開発中です。
 - 技術誌の読者が一番苦手にしがちな「売る」を、技術の記録の延長として扱えることをお伝えしたいです。
 
 **提供できる素材**
@@ -208,7 +208,7 @@ Beautopia 編集部 御中
 **なぜ今、貴媒体で**
 - Web媒体の速報性に合わせ、リリース当日に画面と図版をすべて提供できます。
 - 不正登録対策（500m以内・1分以内）は、Web読者の関心が高い「仕組みの話」です。設計の背景まで話せます。
-- 予約システム「サロンタウンリザーブ」は、個人サロン・一人サロン向けにLINEで完結する導線を手の届く価格で提供する計画です〔要確認：価格の公開可否〕。
+- 予約システム「Salon Town Booking」は、個人サロン・一人サロン向けにLINEで完結する導線を手の届く価格で提供する計画です〔要確認：価格の公開可否〕。
 
 **提供できる素材**
 プレスリリース全文／画面キャプチャ／図版／代表への書面・オンライン取材

diff --git a/outreach/README.md b/outreach/README.md
@@ -12,9 +12,9 @@
 | `02_media_pitch.md` | 業界誌7媒体への個別取材依頼書＋広告部宛の出稿相談版 | 〔要確認〕あり |
 | `03_outreach_emails.md` | ディーラー向け営業メール 4セグメント×3パターン＝12本、特電法フッタ | 〔要記入〕あり |
 | `04_dealer_contacts.csv` | ディーラー79社の連絡先一覧（UTF-8 BOM、Excelでそのまま開ける） | 全行に要確認あり（下記） |
-| `05_reserve_features.md` | 付録：サロンタウンリザーブの機能棚卸し（リポジトリ調査、根拠ファイル付き） | 参照用 |
+| `05_reserve_features.md` | 付録：Salon Town Bookingの機能棚卸し（リポジトリ調査、根拠ファイル付き） | 参照用 |
 | `images/01_scheme.png` | 役割分担図（ディーラー・サロンタウン・サロン・お客様） | 完成 |
-| `images/02_reserve_map.png` | サロンタウンリザーブ機能マップ | 完成 |
+| `images/02_reserve_map.png` | Salon Town Booking機能マップ | 完成 |
 | `images/03_platform.png` | 同一基盤の構成図 | 完成 |
 | `images/04_timeline.png` | 締切からの逆算スケジュール | 完成 |
 
@@ -51,7 +51,7 @@
 | 順 | いつ | 誰が | 何を |
 |---|---|---|---|
 | 1 | 最初の1日 | 田中 | 狙う業界誌の編集部に電話し、特集号の原稿締切と校了日を確認。`00_facts.md` に記入。**校了済みなら逆算表を組み直す** |
-| 2 | 同じ週 | 田中 | 〔要記入〕を埋める：リザーブの提供時期・価格（未定なら「未定」と決める）、数値の時点、連携ディーラー社名の公開可否 |
+| 2 | 同じ週 | 田中 | 〔要記入〕を埋める：Booking の提供時期・価格（未定なら「未定」と決める）、数値の時点、連携ディーラー社名の公開可否 |
 | 3 | 2〜3日 | 担当者〔要記入〕 | `04_dealer_contacts.csv` のメール7社・フォーム24社の問い合わせページを実際に開き、メールアドレスとフォームURLを確定。確認日を備考に書く |
 | 4 | 1週間 | 田中 | 優先度1の18社に先行打診（A-1／B-1／D-1）。反応を「返信」列に記録。社名を出せるディーラーが出れば `01` の本文に反映 |
 | 5 | 先行打診の翌週 | 田中 | リリース最終稿・図版を確定し、`02` の取材依頼を媒体別に送付（編集部宛と広告部宛を混ぜない） |
@@ -90,5 +90,5 @@
 ## 想定される最大のリスク（3点）
 
 1. **連絡先の未確認**：一覧は公式サイトを直接開いて作ったものではない。メール7社に未確認のまま送ると、誤送信と信用低下につながる。手順3を飛ばさない
-2. **記事が先行して、提供開始日を答えられない**：リザーブの提供時期・価格が未定のまま記事が出ると、問い合わせに「未定」としか答えられず期待だけが膨らむ。決まるまではリリースの主語を「ディーラー連携の進捗」に置く
+2. **記事が先行して、提供開始日を答えられない**：Booking の提供時期・価格が未定のまま記事が出ると、問い合わせに「未定」としか答えられず期待だけが膨らむ。決まるまではリリースの主語を「ディーラー連携の進捗」に置く
 3. **主語の混同**：hanico（SEAM）とサロンタウンは別法人。SEAM の店舗数やブランド数をサロンタウンの実績のように書くと、記者の確認で崩れる。会社概要と代表コメントの主語を毎回確認する

diff --git a/outreach/05_reserve_features.md b/outreach/05_reserve_features.md
@@ -1,9 +1,9 @@
-# 05 「サロンタウンリザーブ」機能棚卸し（付録・リポジトリ調査 2026-09-05）
+# 05 「Salon Town Booking」機能棚卸し（付録・リポジトリ調査 2026-09-05）
 
 調査対象: `/home/user/seam-website/booking/`（`square/`, `line/` 含む）、`functions/`、`salontown/`、`正本はどこか.md`、`db/SETUP_DASHBOARD.md`、`README.md`、`.gitignore`、git履歴。
 
 前提・注意（先に読むこと）
-- 本リポジトリ内に **「サロンタウンリザーブ」という製品名は登場しない**（grep 一致は商品名「カラープリザーブ」のみ）。本書は booking/ 配下＝SEAM 銀座で動いている予約〜会計〜スタッフ系システムを「リザーブ」候補として棚卸ししたもの。**製品名との対応は要確認**。
+- 本リポジトリ内に **製品名（旧称サロンタウンリザーブ、現在は Salon Town Booking）は登場しない**（grep 一致は商品名「カラープリザーブ」のみ）。本書は booking/ 配下＝SEAM 銀座で動いている予約〜会計〜スタッフ系システムを「Booking」候補として棚卸ししたもの。**製品名との対応は要確認**。
 - サーバー側（Cloudflare Worker `seam-square-pay`、`booking/square/worker.js`、料金計算の正本 `saas/checkout.js`）は **このリポジトリに含まれていない**（`.gitignore` で `booking/square/*.js` を除外、`正本はどこか.md` に「作業リポジトリ側が正本」と明記）。サーバー挙動は画面側コードとドキュメントの記述からの読み取りであり、**Worker の実装そのものは未検証**。
 - 画面は全て `noindex,nofollow`。公開サイト（hairsalon.html 等）の予約CTAは現在も HotPepper Beauty へリンクしており、`/booking/` への公開導線は本リポジトリ内では確認できず（**要確認**）。
 

diff --git a/outreach/03_outreach_emails.md b/outreach/03_outreach_emails.md
@@ -75,7 +75,7 @@ https://salon.town/
 2. 貴社の負担：新しい倉庫も人員も不要です。出荷指示を受けて、いつもの出荷をしていただくだけです。
 3. 収益：売上は会員バーコードで担当サロン・担当者にひも付き、販売手数料として分配されます。〔要確認：貴社への配分の考え方を1行で〕
 
-同じ基盤で予約システム「サロンタウンリザーブ」も開発中で、予約から店販までを一本の導線にします。詳細は上記ページの図をご覧ください。
+同じ基盤で予約システム「Salon Town Booking」も開発中で、予約から店販までを一本の導線にします。詳細は上記ページの図をご覧ください。
 https://salon.town/
 
 ご不明点があれば、このメールにご返信ください。
@@ -188,7 +188,7 @@ https://salon.town/
 
 これだけです。初期費用は〔要確認：初期費用の有無〕、専任担当は不要です。まず担当サロン1店から試して、効果を見てから広げることをお勧めしています。
 
-同じ基盤の予約システム「サロンタウンリザーブ」は、LINEで完結する予約導線を、一人サロンでも手の届く価格で提供する計画です。担当サロンの予約の悩みにも、貴社経由で応えられます。
+同じ基盤の予約システム「Salon Town Booking」は、LINEで完結する予約導線を、一人サロンでも手の届く価格で提供する計画です。担当サロンの予約の悩みにも、貴社経由で応えられます。
 https://salon.town/
 
 ご返信をお待ちしています。

diff --git a/outreach/00_facts.md b/outreach/00_facts.md
@@ -2,9 +2,9 @@
 
 ## 0. 決定事項（代表・末野氏の指示 2026-09-05）
 - 差出人・主語：**株式会社サロンタウン 代表取締役 田中 健誠 名義**。hanico／SEAM は「導入サロン」として登場させる
-- 内容：2025年12月リリースのスキーム（物流・在庫＝ディーラー、EC・会員管理＝サロンタウン）＋ 開発中の予約システム「サロンタウンリザーブ」の全機能
+- 内容：2025年12月リリースのスキーム（物流・在庫＝ディーラー、EC・会員管理＝サロンタウン）＋ 開発中の予約システム「Salon Town Booking」の全機能
 - 使用可の数値：累計オンラインショップ会員数 **6万人**、オンラインショップ最高月商 **7,000万円**（時点は〔要確認〕）
-- 未決：プレスリリース希望日、業界誌の特集号・締切、リザーブの提供開始時期と価格、初期費用・手数料率、連携ディーラーの社名公開可否。いずれも各成果物に〔要記入〕〔要確認〕として残している
+- 未決：プレスリリース希望日、業界誌の特集号・締切、Booking の提供開始時期と価格、初期費用・手数料率、連携ディーラーの社名公開可否。いずれも各成果物に〔要記入〕〔要確認〕として残している
 
 各成果物はこのファイルに書かれた事実だけを断定形で使う。ここに無い数値・実績は書かない。
 出典は公開情報（PR TIMES 配信リリースとその転載記事）と本リポジトリ内のページ。
